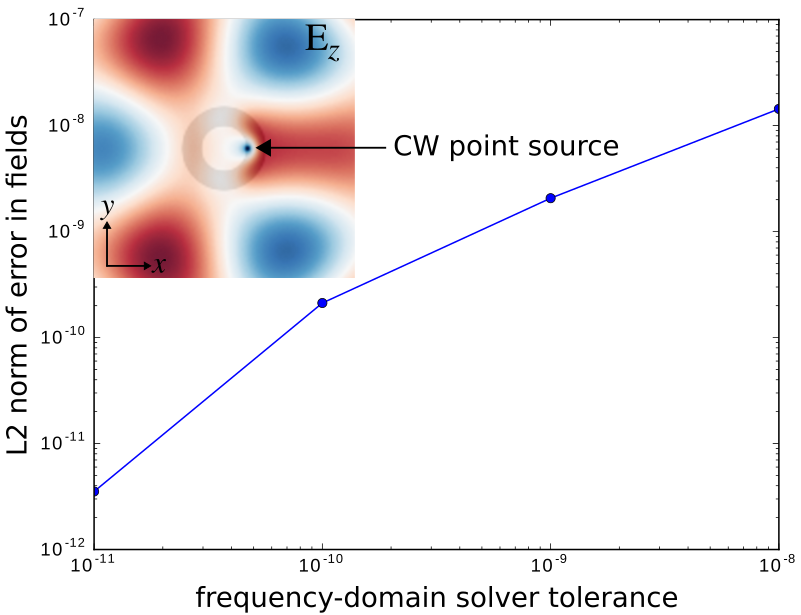
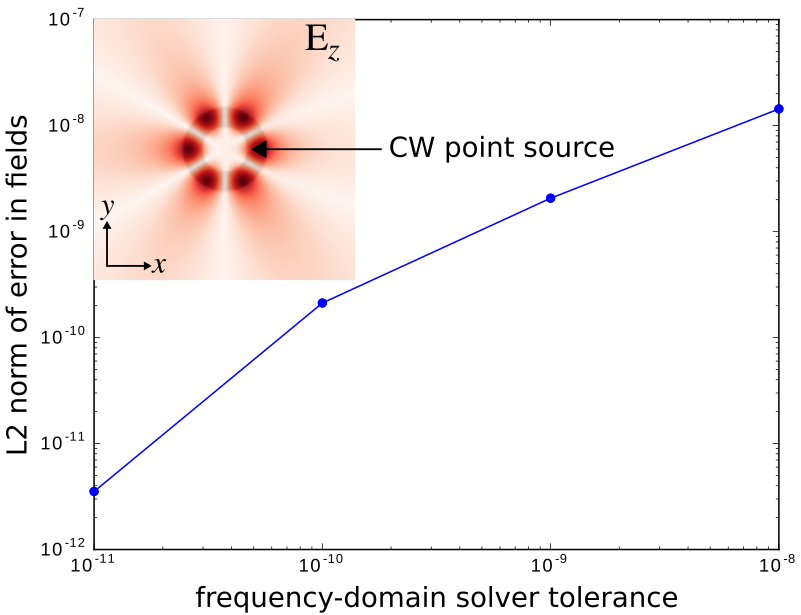
more tweaks

Changed region(s): [[0.0936, 0.0309, 0.7803, 0.4634], [0.9675, 0.1545, 0.9988, 0.1854], [0.0936, 0.7724, 0.1248, 0.8033]]

diff --git a/python/examples/solve-cw.py b/python/examples/solve-cw.py
@@ -39,22 +39,20 @@ err_dat = np.zeros(num_tols-1)
 for i in range(num_tols-1):
     err_dat[i] = LA.norm(ez_dat[:,:,i]-ez_dat[:,:,num_tols-1])
 
-plt.figure()    
+plt.figure(dpi=100)
 plt.loglog(tols[:num_tols-1], err_dat, 'bo-');
 plt.xlabel("frequency-domain solver tolerance");
 plt.ylabel("L2 norm of error in fields");
-plt.savefig("CWsolver_error.eps");
-# plt.show()
+plt.show()
 
-plt.figure()
 eps_data = sim.get_array(mp.Vector3(), mp.Vector3(sxy-2*dpml,sxy-2*dpml), mp.Dielectric)
-ez_data = ez_dat[:,:,num_tols-1].imag
+ez_data = np.absolute(ez_dat[:,:,num_tols-1])
+
 plt.figure(dpi=100)
 plt.imshow(eps_data.transpose(), interpolation='spline36', cmap='binary')
-plt.imshow(ez_data.transpose(), interpolation='spline36', cmap='RdBu', alpha=0.9)
+plt.imshow(ez_data.transpose(), interpolation='spline36', cmap='Reds', alpha=0.9)
 plt.axis('off')
-plt.savefig("CWsolver_fields2.png")
-# plt.show()
+plt.show()
 
 if np.all(np.diff(err_dat) < 0):
     print("PASSED solve_cw test: error in the fields is decreasing with increasing resolution")

diff --git a/doc/docs/Python_Tutorials/Frequency_Domain_Solver.md b/doc/docs/Python_Tutorials/Frequency_Domain_Solver.md
@@ -2,9 +2,9 @@
 # Frequency Domain Solver
 ---
 
-This tutorial demonstrates Meep's [frequency-domain solver](../Python_User_Interface/#frequency-domain-solver) which is used to compute the fields produced in a geometry in response to a [constant-frequency source](https://en.wikipedia.org/wiki/Continuous_wave). For more details regarding what this feature is and how it works, refer to this [FAQ](../FAQ/#what-is-meeps-frequency-domain-solver-and-how-does-it-work). This example involves using the frequency-domain solver to compute the fields of a ring resonator which has been described in a [separate tutorial](Basics/#modes-of-a-ring-resonator). We will verify that the error in the computed fields decreases monotonically with decreasing tolerance of the iterative solver.
+This tutorial demonstrates Meep's [frequency-domain solver](../Python_User_Interface/#frequency-domain-solver) which is used to compute the fields produced in a geometry in response to a [continuous-wave (CW) source](https://en.wikipedia.org/wiki/Continuous_wave). For more details regarding what this feature is and how it works, refer to this [FAQ](../FAQ/#what-is-meeps-frequency-domain-solver-and-how-does-it-work). This example involves using the frequency-domain solver to compute the fields of a ring resonator which has been described in a [separate tutorial](Basics/#modes-of-a-ring-resonator). We will verify that the error in the computed fields decreases monotonically with decreasing tolerance of the iterative solver.
 
-Only two changes are necessary to the [original simulation](https://github.com/stevengj/meep/blob/master/python/examples/ring.py) which involved time-stepping the fields in response to a broadband source: (1) replace the Gaussian-pulse source with a [continuous-wave (CW) source](../Python_User_Interface/#continuoussource), and (2) turn on complex fields since, by default, real fields are used. Everything else remains unchanged.
+Only two changes are necessary to the [original simulation](https://github.com/stevengj/meep/blob/master/python/examples/ring.py) which involved time-stepping the fields in response to a broadband source: (1) replace the Gaussian-pulse source with a [continuous source](../Python_User_Interface/#continuoussource), and (2) turn on complex fields since, by default, real fields are used. Everything else remains unchanged.
 
 Since the frequency-domain solver uses an [iterative method](https://en.wikipedia.org/wiki/Iterative_method), there are two things we can do to improve its convergence: (1) use a non-zero smoothing width (default is 0) for the CW source to reduce the high-frequency oscillations produced by its abrupt turn on (which have slow group velocities and are absorbed poorly by [PML](../Perfectly_Matched_Layer/)), and (2) increase the value of $L$ (default is 2) which is one of the parameters used in the [BiCGSTAB-L](https://en.wikipedia.org/wiki/Biconjugate_gradient_stabilized_method) iterative solver.
 
@@ -52,18 +52,18 @@ err_dat = np.zeros(num_tols-1)
 for i in range(num_tols-1):
     err_dat[i] = LA.norm(ez_dat[:,:,i]-ez_dat[:,:,num_tols-1])
 
-plt.figure()    
+plt.figure(dpi=100)
 plt.loglog(tols[:num_tols-1], err_dat, 'bo-');
 plt.xlabel("frequency-domain solver tolerance");
 plt.ylabel("L2 norm of error in fields");
 plt.show()
 
-plt.figure()
 eps_data = sim.get_array(mp.Vector3(), mp.Vector3(sxy-2*dpml,sxy-2*dpml), mp.Dielectric)
-ez_data = ez_dat[:,:,num_tols-1].imag
+ez_data = np.absolute(ez_dat[:,:,num_tols-1])
+
 plt.figure(dpi=100)
 plt.imshow(eps_data.transpose(), interpolation='spline36', cmap='binary')
-plt.imshow(ez_data.transpose(), interpolation='spline36', cmap='RdBu', alpha=0.9)
+plt.imshow(ez_data.transpose(), interpolation='spline36', cmap='Reds', alpha=0.9)
 plt.axis('off')
 plt.show()
 
@@ -73,7 +73,7 @@ else:
     print("FAILED solve_cw test: error in the fields is NOT decreasing with increasing resolution")
 ```
 
-The inset of the figure below shows the scalar E$_z$ field (imaginary part), computed using a tolerance of 10$^{-12}$, overlapping the ring-resonator geometry. Note the three-fold mirror symmetry of the field pattern and presence of the point source. The error in the fields decreases monotonically with decreasing tolerance of the frequency-domain solver.
+The inset of the figure below shows the magnitude of the E$_z$ field, computed using a tolerance of 10$^{-12}$, overlapping the ring-resonator geometry. Note the three-fold mirror symmetry of the field pattern and presence of the point source. The error in the fields decreases monotonically with decreasing tolerance of the frequency-domain solver.
 
 <center>
 ![](../images/CWsolver-python.png)

diff --git a/doc/docs/Scheme_Tutorials/Frequency_Domain_Solver.md b/doc/docs/Scheme_Tutorials/Frequency_Domain_Solver.md
@@ -2,9 +2,9 @@
 # Frequency Domain Solver
 ---
 
-This tutorial demonstrates Meep's [frequency-domain solver](../Scheme_User_Interface/#frequency-domain-solver) which is used to compute the fields produced in a geometry in response to a [constant-frequency source](https://en.wikipedia.org/wiki/Continuous_wave). For more details regarding what this feature is and how it works, refer to this [FAQ](../FAQ/#what-is-meeps-frequency-domain-solver-and-how-does-it-work). This example involves using the frequency-domain solver to compute the fields of a ring resonator which has been described in a [separate tutorial](Basics/#modes-of-a-ring-resonator). We will verify that the error in the computed fields decreases monotonically with decreasing tolerance of the iterative solver.
+This tutorial demonstrates Meep's [frequency-domain solver](../Scheme_User_Interface/#frequency-domain-solver) which is used to compute the fields produced in a geometry in response to a [continuous-wave (CW) source](https://en.wikipedia.org/wiki/Continuous_wave). For more details regarding what this feature is and how it works, refer to this [FAQ](../FAQ/#what-is-meeps-frequency-domain-solver-and-how-does-it-work). This example involves using the frequency-domain solver to compute the fields of a ring resonator which has been described in a [separate tutorial](Basics/#modes-of-a-ring-resonator). We will verify that the error in the computed fields decreases monotonically with decreasing tolerance of the iterative solver.
 
-Only two changes are necessary to the [original simulation](https://github.com/stevengj/meep/blob/master/scheme/examples/ring.ctl) which involved time-stepping the fields in response to a broadband source: (1) replace the Gaussian-pulse source with a [continuous-wave (CW) source](../Scheme_User_Interface/#source), and (2) turn on complex fields since, by default, real fields are used. Everything else remains unchanged.
+Only two changes are necessary to the [original simulation](https://github.com/stevengj/meep/blob/master/scheme/examples/ring.ctl) which involved time-stepping the fields in response to a broadband source: (1) replace the Gaussian-pulse source with a [continuous source](../Scheme_User_Interface/#source), and (2) turn on complex fields since, by default, real fields are used. Everything else remains unchanged.
 
 Since the frequency-domain solver uses an [iterative method](https://en.wikipedia.org/wiki/Iterative_method), there are two things we can do to improve its convergence: (1) use a non-zero smoothing width (default is 0) for the CW source to reduce the high-frequency oscillations produced by its abrupt turn on (which have slow group velocities and are absorbed poorly by [PML](../Perfectly_Matched_Layer/)), and (2) increase the value of $L$ (default is 2) which is one of the parameters used in the [BiCGSTAB-L](https://en.wikipedia.org/wiki/Biconjugate_gradient_stabilized_method) iterative solver.
 
@@ -45,16 +45,18 @@ We will use the frequency-domain solver to compute the fundamental mode at five 
 (define-param solve-cw-maxiters 10000)
 (define-param solve-cw-L 10)
 
+(define (ez-mag r ez) (magnitude ez))
+
 (init-fields)
 (meep-fields-solve-cw fields solve-cw-tol solve-cw-maxiters solve-cw-L)
 (in-volume (volume (center 0 0) (size (- sxy (* 2 dpml)) (- sxy (* 2 dpml))))
            (output-epsilon)
-           (output-efield-z))
+           (output-real-field-function "ez-mag" (list Ez) ez-mag))
 
 (exit)
 ```
 
-The inset of the figure below shows the scalar E$_z$ field (imaginary part), computed using a tolerance of 10$^{-12}$, overlapping the ring-resonator geometry. Note the three-fold mirror symmetry of the field pattern and presence of the point source. The error in the fields decreases monotonically with decreasing tolerance of the frequency-domain solver.
+The inset of the figure below shows the magnitude of the E$_z$ field, computed using a tolerance of 10$^{-12}$, overlapping the ring-resonator geometry. Note the three-fold mirror symmetry of the field pattern and presence of the point source. The error in the fields decreases monotonically with decreasing tolerance of the frequency-domain solver.
 
 <center>
 ![](../images/CWsolver-scheme.png)

diff --git a/doc/docs/FAQ.md b/doc/docs/FAQ.md
@@ -114,6 +114,8 @@ Meep contains a [frequency-domain solver](Python_User_Interface/#frequency-domai
 
 This means that all of the features from the time-domain solver (e.g., arbitrary materials, symmetries, subpixel averaging, parallelization, etc.) are also available as a frequency-domain solver. For certain problems, such as cavities (e.g., ring resonators) with long-lived resonant modes, the frequency-domain solver converges much faster than the straightforward approach of simply running a long simulation until transients have disappeared. Another benefit is that an arbitrary complex refractive index can be specified directly using the [electric conductivity](Materials/#conductivity-and-complex) without having to fit the data to a sum of [Lorentzian-Drude susceptibility terms](Materials/#material-dispersion).
 
+Examples are provided in [Tutorials/Frequency-Domain Solver](Python_Tutorials/Frequency_Domain_Solver/).
+
 ### Is there a materials library?
 
 A materials library is available containing 11 commonly used metals in optoelectronic devices: Ag, Au, Cu, Al, Be, Cr, Ni, Pd, Pt, Ti, W. Additional information is provided in [Materials](Materials/#materials-library).

diff --git a/doc/docs/index.md b/doc/docs/index.md
@@ -14,7 +14,7 @@
 -   Field output in the [HDF5](https://en.wikipedia.org/wiki/HDF5) standard scientific data format, supported by many visualization tools.
 -   Arbitrary current sources including a guided-mode launcher.
 -   Frequency-domain solver for finding the response to a continuous-wave source.
--   Field analysis tools involving flux spectra, modal depcomposition, frequency extraction, local density of states, modal volume, Maxwell stress tensor, arbitrary functions, near to far field transformations; completely programmable.
+-   Field analyses including flux spectra, modal depcomposition, frequency extraction, local density of states, modal volume, Maxwell stress tensor, arbitrary functions, near to far field transformations; completely programmable.
 
 Time-Domain Simulation
 ----------------------

diff --git a/README.md b/README.md
@@ -17,7 +17,7 @@
 -   Field output in the [HDF5](https://en.wikipedia.org/wiki/HDF5) standard scientific data format, supported by many visualization tools.
 -   Arbitrary current sources including a guided-mode launcher.
 -   Frequency-domain solver for finding the response to a continuous-wave source.
--   Field analysis tools involving flux spectra, modal decomposition, frequency extraction, local density of states, modal volume, Maxwell stress tensor, arbitrary functions, near to far field transformations; completely programmable.
+-   Field analyses including flux spectra, modal decomposition, frequency extraction, local density of states, modal volume, Maxwell stress tensor, arbitrary functions, near to far field transformations; completely programmable.
 
 # Documentation
 
